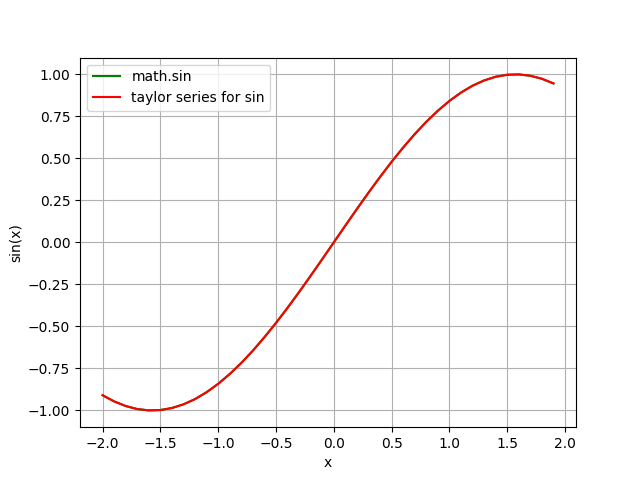
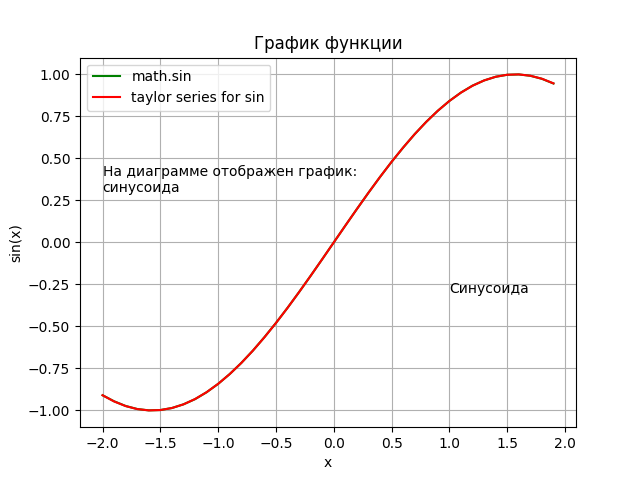
Completed lab

Changed region(s): [[0.1562, 0.3438, 0.5625, 0.4062], [0.375, 0.0625, 0.625, 0.125], [0.7188, 0.5938, 0.8438, 0.625]]

diff --git a/IGI/LR4/python_LR4/Tasks/Task5/task5.py b/IGI/LR4/python_LR4/Tasks/Task5/task5.py
@@ -8,9 +8,17 @@ class Task5:
         self.columns = None
 
     def get_matrix(self):
+        """
+        Get matrix
+        :return: matrix
+        """
         return self.matrix
 
     def solve(self):
+        """
+        Solve this task
+        :return:
+        """
         TestNumPy.test()
         self.create_matrix()
         print(self.get_matrix())
@@ -22,6 +30,10 @@ class Task5:
         print(f"Значение медианы через формулу: {median}.")
 
     def create_matrix(self):
+        """
+        Get matrix with random initialization
+        :return:
+        """
         print("Введите количество строк: ")
         self.rows = user_input5.input_number()
         print("Введите количество столбцов: ")
@@ -29,6 +41,10 @@ class Task5:
         self.matrix = np.random.randint(-1000, 1000, (self.rows, self.columns))
 
     def find_column_with_min_sum(self):
+        """
+        Get column with minimal sum
+        :return: column, min_sum
+        """
         min_summ = 0
         column = None
         for i in range(self.columns):
@@ -41,6 +57,11 @@ class Task5:
 
     @staticmethod
     def get_median(column):
+        """
+        Get median
+        :param column:
+        :return: median
+        """
         column.sort()
         print(column)
         length = len(column)

diff --git a/IGI/LR4/python_LR4/Tasks/Task3/SolveSinus.py b/IGI/LR4/python_LR4/Tasks/Task3/SolveSinus.py
@@ -51,14 +51,17 @@ class SolveSin:
         y_series = [self.calculate_sum(xi, 0.001)[0] for xi in x]
         y_function = [math.sin(xi) for xi in x]
 
-        fig, ax = plt.subplots()
-        ax.grid(True)
+        fig, ax = plt.subplots() #Создание объекта рисунка и объекта осей
+        ax.grid(True) #Включение сетки
 
         plt.plot(x, y_series, color="green")
         plt.plot(x, y_function, color="red")
         plt.xlabel('x')
         plt.ylabel('sin(x)')
         plt.legend(['math.sin', 'taylor series for sin'])
+        plt.annotate("Синусоида", xy=(1, -0.3), xytext=(1, -0.3))
+        plt.title("График функции")
+        plt.text(-2, 0.3,"На диаграмме отображен график:\nсинусоида")
 
         if path_to_file:
             try:

diff --git a/IGI/LR4/python_LR4/Tasks/Task5/testNumPy.py b/IGI/LR4/python_LR4/Tasks/Task5/testNumPy.py
@@ -4,6 +4,10 @@ import numpy as np
 class TestNumPy:
     @staticmethod
     def test():
+        """
+        Test NumPy methods
+        :return:
+        """
         lst = [-5, -4, -3, -2, -1, 0, 1, 2, 3, 4, 5]
         arr_np = np.array(lst)
         print("Тест функций numPy")
